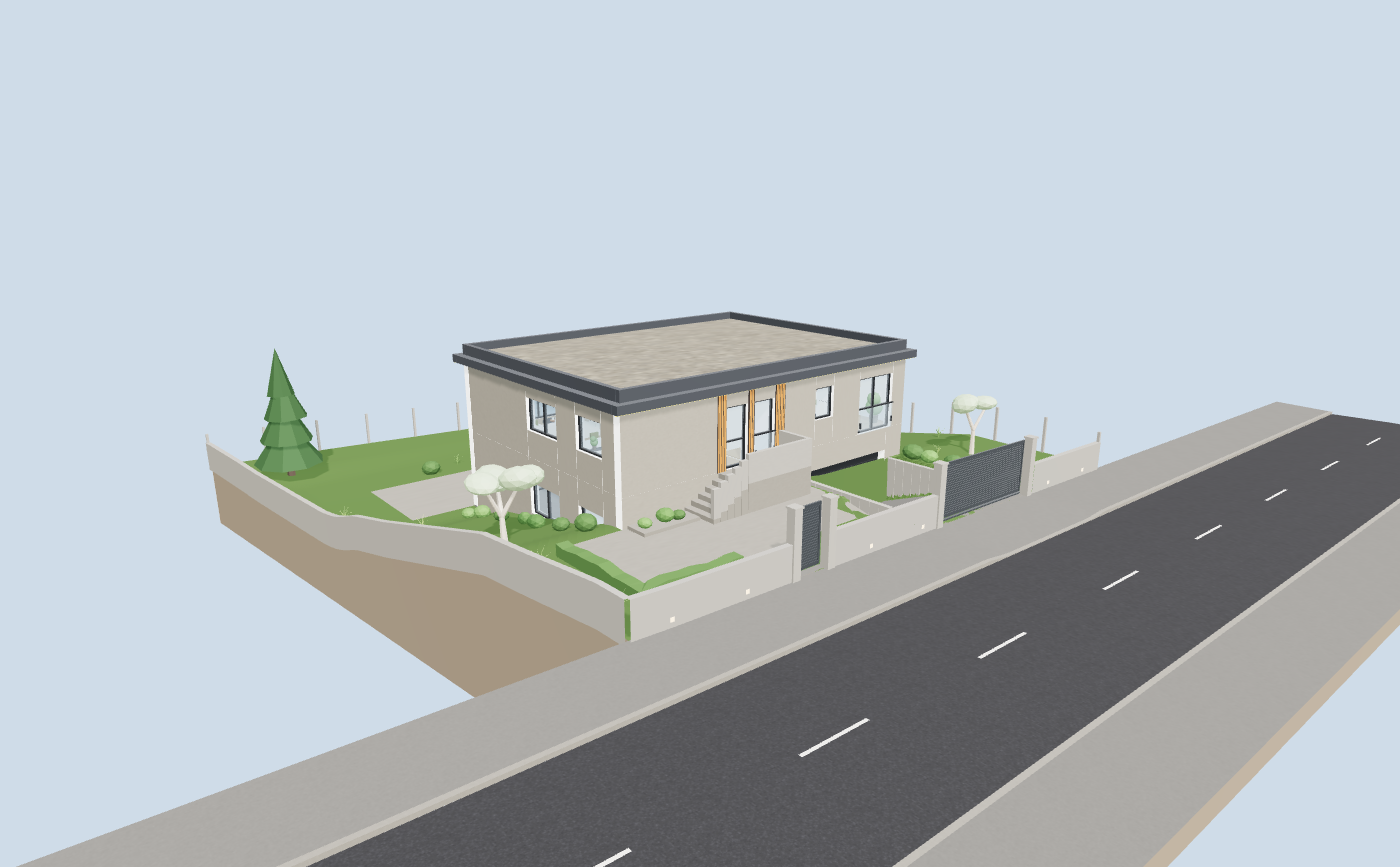
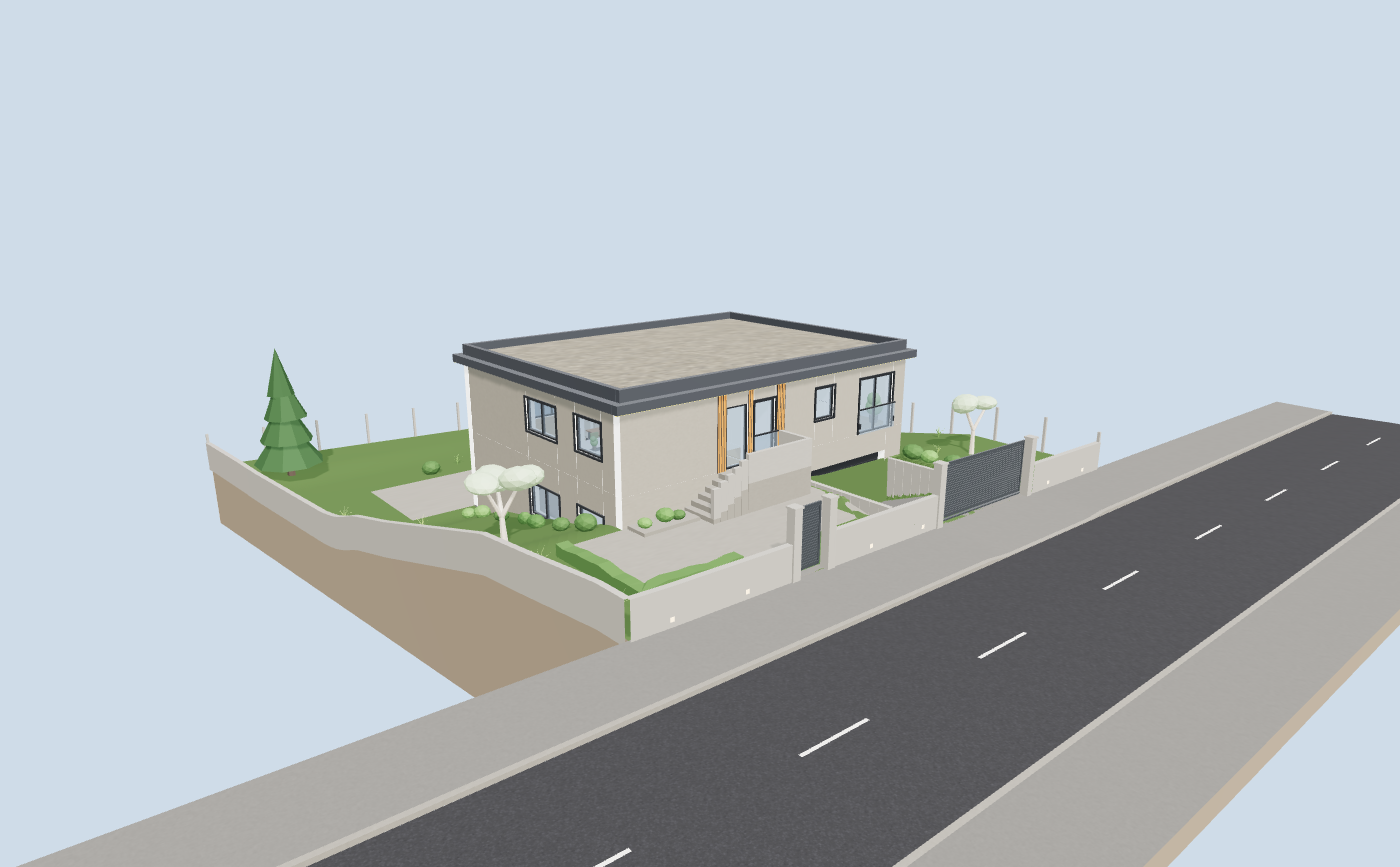
Make the windows read the way the renders draw them
Three things were wrong with the openings, and the transom was the worst of
them: a horizontal bar 0.95 m up every tall window, plus a mullion every 1.10 m,
turned each one into a four-pane grid. The renders have nothing of the sort —
two or three large panes to a sash, no transom, and a deep anthracite surround
wrapped round the whole opening, standing proud of the render with its own
shadow line.

The drawings do show that transom, though, so both subdivisions are now built
and `setGlazingStyle` picks between them: the drawing's panes when the design
layer is off, the renders' when it is on. The surround belongs to the renders'
set — nothing on the elevations projects from the façade.

The sash also came off the wall's centre line, which had put a 0.175 m reveal on
both faces of a 0.35 m wall. It sits in the outer third now, 0.03 m back from
the face, which is where a window in an insulated wall goes and what lets the
surround sit on top of it rather than a hand's width in front.

Two knock-on fixes. The three slat panels beside the openings had been set out
to the reveals and now stop short of the surrounds instead. And the Juliet
balustrades, at 0.08 proud and tucked inside the reveal, put their top rail on
the glass exactly where the transom used to be — so having removed one bar
across the window we had drawn another. They stand 0.14 m off now and lap over
the surround, which is what makes them read as something in front of the window.
[…]

Changed region(s): [[0.5221, 0.4048, 0.645, 0.5294], [0.3686, 0.436, 0.43, 0.5294], [0.3686, 0.5606, 0.43, 0.5917]]

diff --git a/src/scene/builder.ts b/src/scene/builder.ts
@@ -70,6 +70,8 @@ export interface HouseParts {
   garageDoor: GarageDoor
   /** The road, the footpath and the two gates. */
   street: StreetParts
+  /** Subdivide the windows the way the drawings do, or the way the reference renders do. */
+  setGlazingStyle(style: GlazingStyle): void
 }
 
 const box = (w: number, h: number, d: number) => new THREE.BoxGeometry(w, h, d)
@@ -172,12 +174,33 @@ function buildWall(wall: Wall, lib: MaterialLibrary): THREE.Group {
 }
 
 // ─────────────────────────────────────────────────────────────────────────────
-// Glazing: a frame around the reveal plus mullioned panes.
+// Glazing: a sash in the reveal, subdivided one of two ways.
+//
+// The drawings subdivide a window into panes of about a metre with a transom across the tall
+// openings. The reference renders do neither: they run two or three large panes to a sash, no
+// transom at all, and wrap the whole opening in a deep anthracite surround standing proud of
+// the render. Both are built; `setGlazingStyle` on HouseParts picks which one shows.
 // ─────────────────────────────────────────────────────────────────────────────
 
 const FRAME = 0.06
 
-function buildGlazing(wall: Wall, o: Opening, lib: MaterialLibrary): THREE.Group | null {
+/** The surround the renders put round every window: a wide face, bedded into the render. */
+const SURROUND = { face: 0.07, proud: 0.045, thick: 0.065 }
+
+export type GlazingStyle = 'drawn' | 'renders'
+
+/** Which way is out of the building, for this exterior wall. Mirrors `outwardFaceIndex`. */
+function outwardSign(wall: Wall): number {
+  if (wall.run === 'x') return wall.at < SIZE.depth / 2 ? -1 : 1
+  return wall.at < SIZE.width / 2 ? -1 : 1
+}
+
+function buildGlazing(
+  wall: Wall,
+  o: Opening,
+  lib: MaterialLibrary,
+  styles: { drawn: THREE.Object3D[]; renders: THREE.Object3D[] },
+): THREE.Group | null {
   // The garage door is a sectional door that opens, built in `exterior.ts`; everything this
   // function knows how to make is fixed in its reveal.
   if (o.kind === 'door' || o.kind === 'opening' || o.kind === 'garage') return null
@@ -195,6 +218,11 @@ function buildGlazing(wall: Wall, o: Opening, lib: MaterialLibrary): THREE.Group
   const depth = Math.min(wall.thickness * 0.55, 0.12)
   const mid = o.from + width / 2
   const cy = o.sill + height / 2
+  const out = outwardSign(wall)
+  // The sash used to sit on the wall's centre line, which put a 0.175 m reveal on both faces of
+  // a 0.35 m wall. A window in an insulated wall sits in its outer third: 0.03 m of outer
+  // reveal, the rest of the depth inside.
+  const set = Math.max(0, wall.thickness / 2 - depth / 2 - 0.03)
 
   const place = (
     lengthAlong: number,
@@ -203,13 +231,14 @@ function buildGlazing(wall: Wall, o: Opening, lib: MaterialLibrary): THREE.Group
     yCentre: number,
     m: THREE.Material,
     thick = depth,
+    across = set,
+    into: THREE.Object3D = g,
   ) => {
     const geo = wall.run === 'x' ? box(lengthAlong, h, thick) : box(thick, h, lengthAlong)
-    const x = wall.run === 'x' ? alongCentre : wall.at
-    const z = wall.run === 'x' ? wall.at : alongCentre
-    const mm = mesh(geo, m, x, yCentre, z)
+    const off = wall.at + out * across
+    const mm = mesh(geo, m, wall.run === 'x' ? alongCentre : off, yCentre, wall.run === 'x' ? off : alongCentre)
     mm.castShadow = false
-    g.add(mm)
+    into.add(mm)
   }
 
   // Outer frame
@@ -218,14 +247,45 @@ function buildGlazing(wall: Wall, o: Opening, lib: MaterialLibrary): THREE.Group
   place(FRAME, height, o.from + FRAME / 2, cy, frameMat)
   place(FRAME, height, o.to - FRAME / 2, cy, frameMat)
 
-  // Mullions: panes of at most ~1.10 m.
-  const panes = Math.max(1, Math.round(width / 1.1))
-  for (let i = 1; i < panes; i++) {
-    place(FRAME * 0.7, height - FRAME * 2, o.from + (width * i) / panes, cy, frameMat)
+  /** Mullions dividing the opening into `n` panes, in whichever bar set is asked for. */
+  const mullions = (n: number, thick: number, into: THREE.Object3D) => {
+    for (let i = 1; i < n; i++) {
+      place(thick, height - FRAME * 2, o.from + (width * i) / n, cy, frameMat, depth, set, into)
+    }
   }
+
+  const drawn = new THREE.Group()
+  drawn.name = 'glazing-drawn'
+  mullions(Math.max(1, Math.round(width / 1.1)), FRAME * 0.7, drawn)
   // Transom, where the elevations show one: 0.95 m up on the tall openings.
-  const hasTransom = height > 1.6
-  if (hasTransom) place(width - FRAME * 2, FRAME * 0.7, mid, o.sill + 0.95, frameMat)
+  if (height > 1.6) {
+    place(width - FRAME * 2, FRAME * 0.7, mid, o.sill + 0.95, frameMat, depth, set, drawn)
+  }
+
+  const renders = new THREE.Group()
+  renders.name = 'glazing-renders'
+  mullions(Math.max(1, Math.ceil(width / 1.6)), FRAME * 0.55, renders)
+  // The surround goes round windows and full-height glazing only. The front door sits in a
+  // field of timber slats in the renders, not in a frame, and the garage door has its own.
+  if (o.kind === 'window' || o.kind === 'french') {
+    const b = SURROUND.face
+    const across = wall.thickness / 2 + SURROUND.proud - SURROUND.thick / 2
+    // Only a window with a real sill gets a band under it; on full-height glazing it would be
+    // buried in the terrace.
+    const lo = o.sill > floorLevel + 0.05 ? o.sill - b : o.sill
+    const hi = o.head + b
+    // The head and sill bands stop at the reveal and the jambs carry the corners, so no two
+    // faces of the surround end up coplanar and fighting.
+    place(width, b, mid, o.head + b / 2, frameMat, SURROUND.thick, across, renders)
+    if (lo < o.sill) place(width, b, mid, o.sill - b / 2, frameMat, SURROUND.thick, across, renders)
+    for (const at of [o.from - b / 2, o.to + b / 2]) {
+      place(b, hi - lo, at, (lo + hi) / 2, frameMat, SURROUND.thick, across, renders)
+    }
+  }
+
+  g.add(drawn, renders)
+  styles.drawn.push(drawn)
+  styles.renders.push(renders)
 
   // Glass, inset behind the frame
   place(width - FRAME * 2, height - FRAME * 2, mid, cy, glassMat, depth * 0.35)
@@ -776,17 +836,18 @@ export function buildHouse(lib: MaterialLibrary): HouseParts {
   glazingCave.name = 'glazing-cave'
   glazingGround.name = 'glazing-ground'
 
+  const styles = { drawn: [] as THREE.Object3D[], renders: [] as THREE.Object3D[] }
   for (const w of CAVE_WALLS) {
     cave.add(buildWall(w, lib))
     for (const o of w.openings ?? []) {
-      const gz = buildGlazing(w, o, lib)
+      const gz = buildGlazing(w, o, lib, styles)
       if (gz) glazingCave.add(gz)
     }
   }
   for (const w of GROUND_WALLS) {
     ground.add(buildWall(w, lib))
     for (const o of w.openings ?? []) {
-      const gz = buildGlazing(w, o, lib)
+      const gz = buildGlazing(w, o, lib, styles)
       if (gz) glazingGround.add(gz)
     }
   }
@@ -848,5 +909,9 @@ export function buildHouse(lib: MaterialLibrary): HouseParts {
     planting,
     garageDoor: exterior.garage,
     street,
+    setGlazingStyle(style) {
+      for (const o of styles.drawn) o.visible = style === 'drawn'
+      for (const o of styles.renders) o.visible = style === 'renders'
+    },
   }
 }

diff --git a/src/scene/exterior.ts b/src/scene/exterior.ts
@@ -145,10 +145,13 @@ export function slatPanel(face: Face, from: number, to: number, base: number, to
  */
 const SLAT_PANELS: Array<{ face: Face; from: number; to: number; base: number; top: number }> = [
   { face: 'front', from: 3.95, to: 4.353, base: ENTRANCE.platform.z, top: LEVELS.palaBottom },
-  { face: 'front', from: 5.353, to: 5.653, base: ENTRANCE.platform.z, top: LEVELS.palaBottom },
-  { face: 'front', from: 6.653, to: 7.15, base: ENTRANCE.platform.z, top: LEVELS.palaBottom },
-  // −1.711 is the spot level the drawings give for the rear yard.
-  { face: 'rear', from: 5.25, to: 6.2, base: -1.711, top: LEVELS.palaBottom },
+  // These three stop short of the window surrounds either side of them, which stand 0.07
+  // proud of each reveal: the hall's glazing runs 5.653…6.653.
+  { face: 'front', from: 5.353, to: 5.583, base: ENTRANCE.platform.z, top: LEVELS.palaBottom },
+  { face: 'front', from: 6.723, to: 7.15, base: ENTRANCE.platform.z, top: LEVELS.palaBottom },
+  // −1.711 is the spot level the drawings give for the rear yard. The strip stops at 6.10,
+  // clear of the surround on the ground-floor opening that starts at 6.203.
+  { face: 'rear', from: 5.25, to: 6.1, base: -1.711, top: LEVELS.palaBottom },
 ]
 
 // ─────────────────────────────────────────────────────────────────────────────
@@ -272,14 +275,17 @@ function buildUplighters(lib: MaterialLibrary): THREE.Group {
 // Glass Juliet balustrades
 // ─────────────────────────────────────────────────────────────────────────────
 
-const JULIET = { height: 1.05, proud: 0.08, rail: 0.045, reveal: 0.03, glass: 0.02 }
+// Standing well clear of the window, and lapping over the surround rather than tucked inside
+// the reveal: at 0.08 proud and inset, the rail landed on the glass halfway up the opening and
+// the whole thing read as a transom rather than as a balustrade in front of it.
+const JULIET = { height: 1.05, proud: 0.14, rail: 0.05, lap: 0.05, glass: 0.02 }
 
 function buildJuliet(face: Face, o: Opening, lib: MaterialLibrary): THREE.Group {
   const g = new THREE.Group()
   g.name = `juliet-${face}-${o.from.toFixed(2)}`
   const frame = lib.get('frame')
-  const from = o.from + JULIET.reveal
-  const to = o.to - JULIET.reveal
+  const from = o.from - JULIET.lap
+  const to = o.to + JULIET.lap
   const top = o.sill + JULIET.height
 
   const pane = onFace(face, from, to, o.sill + 0.02, top - JULIET.rail, JULIET.glass, JULIET.proud, lib.get('glass'))
@@ -290,9 +296,9 @@ function buildJuliet(face: Face, o: Opening, lib: MaterialLibrary): THREE.Group 
   // length, which is what makes the balustrade read as frameless.
   g.add(onFace(face, from - 0.02, to + 0.02, top - JULIET.rail, top, 0.05, JULIET.proud + 0.015, frame))
 
-  // A fixing back to each reveal.
-  for (const at of [from + 0.025, to - 0.025]) {
-    g.add(onFace(face, at - 0.025, at + 0.025, o.sill + 0.24, o.sill + 0.46, 0.06, JULIET.proud + 0.01, frame))
+  // A fixing bridging the whole way back to the wall, so the glass reads as held off it.
+  for (const at of [from + 0.03, to - 0.03]) {
+    g.add(onFace(face, at - 0.03, at + 0.03, o.sill + 0.24, o.sill + 0.46, JULIET.proud, JULIET.proud, frame))
   }
   return g
 }

diff --git a/src/model/finishes.ts b/src/model/finishes.ts
@@ -133,7 +133,7 @@ export const DESIGN_IDEAS: Scheme = {
     pala: { color: '#313438', roughness: 0.6, metalness: 0.1 },
     parapet: { color: '#313438', roughness: 0.6, metalness: 0.1 },
     frame: { color: '#26292c', roughness: 0.38, metalness: 0.55 },
-    glass: { color: '#7f96a6', roughness: 0.05, metalness: 0.12, opacity: 0.3 },
+    glass: { color: '#66798a', roughness: 0.04, metalness: 0.28, opacity: 0.36 },
     roof: { color: '#a9a396', roughness: 1, metalness: 0, grain: 'gravel' },
     interiorWall: { color: '#f2efe9', roughness: 0.95, metalness: 0 },
     ceiling: { color: '#fbfaf7', roughness: 0.98, metalness: 0 },

diff --git a/src/main.ts b/src/main.ts
@@ -171,6 +171,7 @@ function applyDesign() {
   parts.furnitureGround.visible = designOn
   parts.exterior.visible = designOn
   parts.planting.visible = designOn
+  parts.setGlazingStyle(designOn ? 'renders' : 'drawn')
 }
 
 const designToggle = $<HTMLInputElement>('#design-on')
